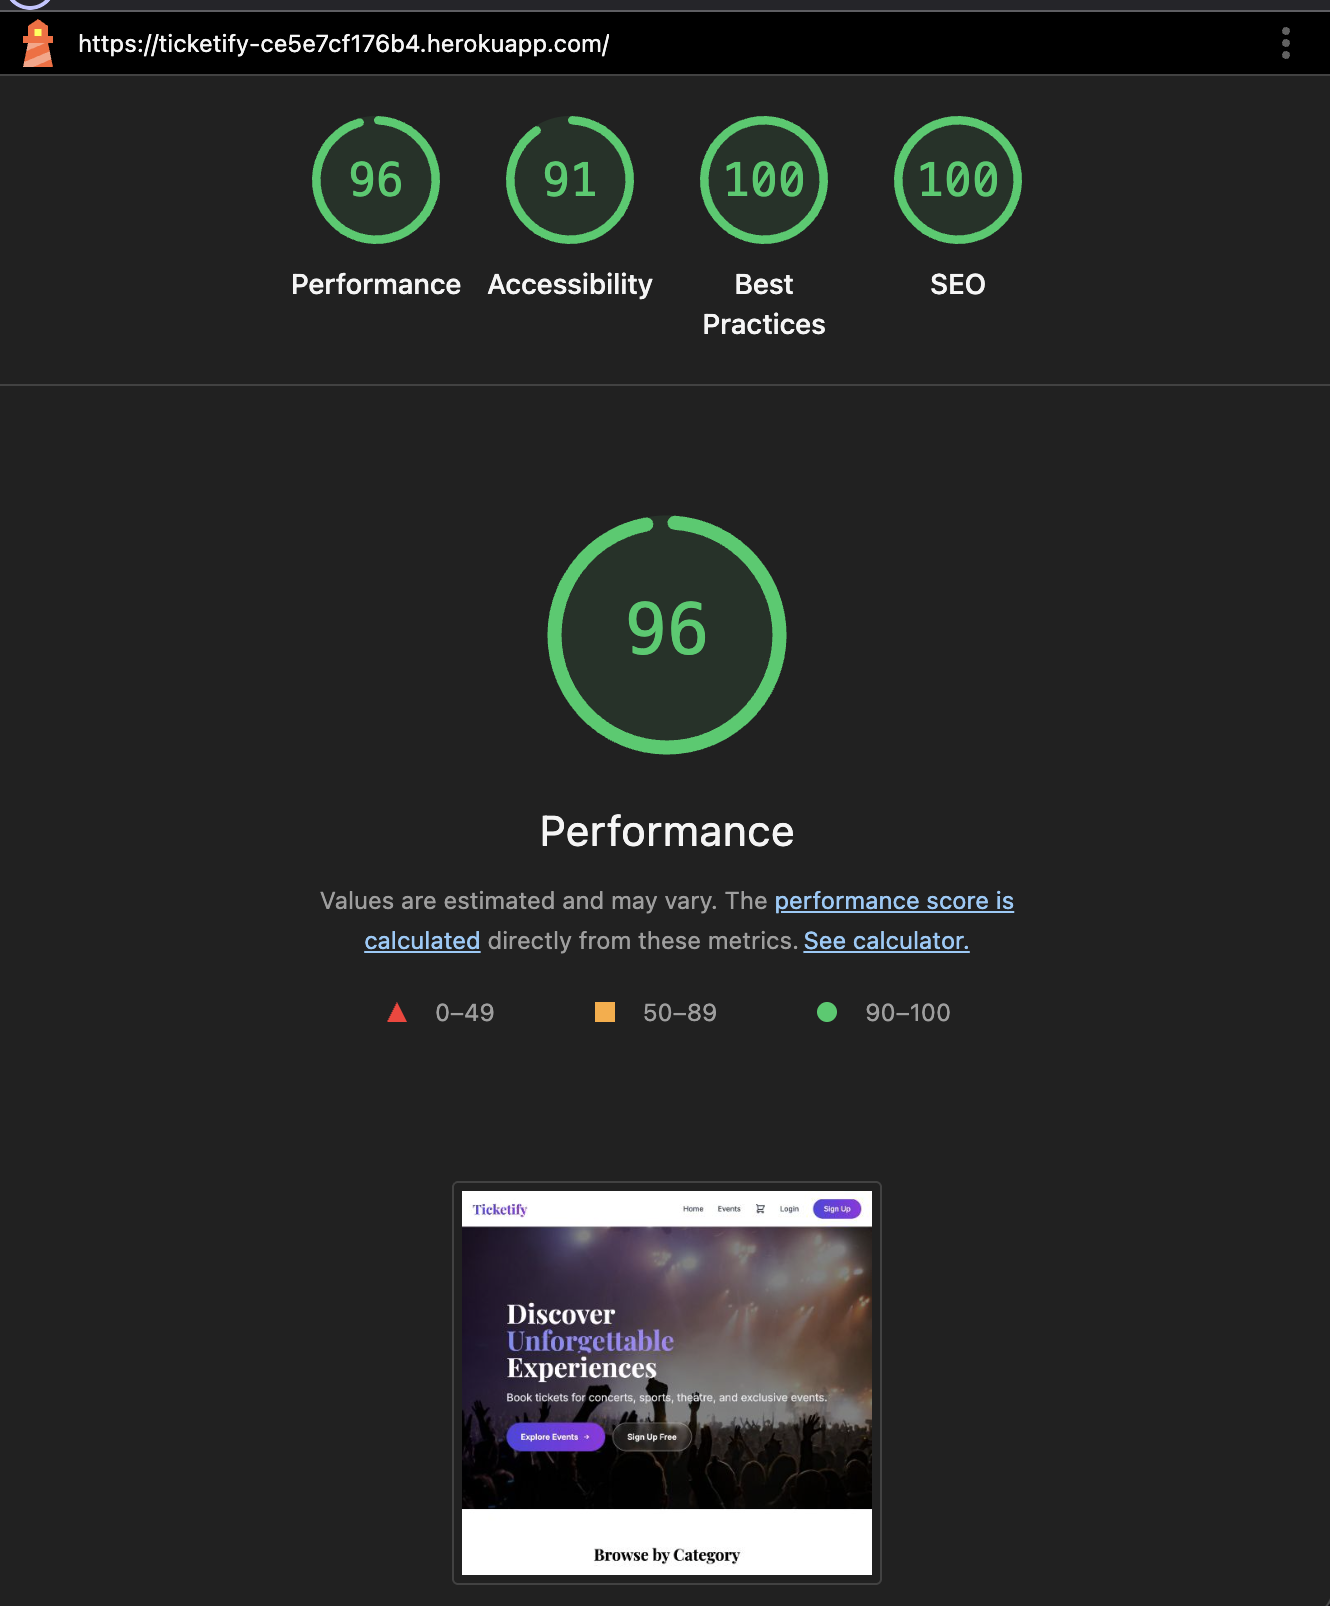
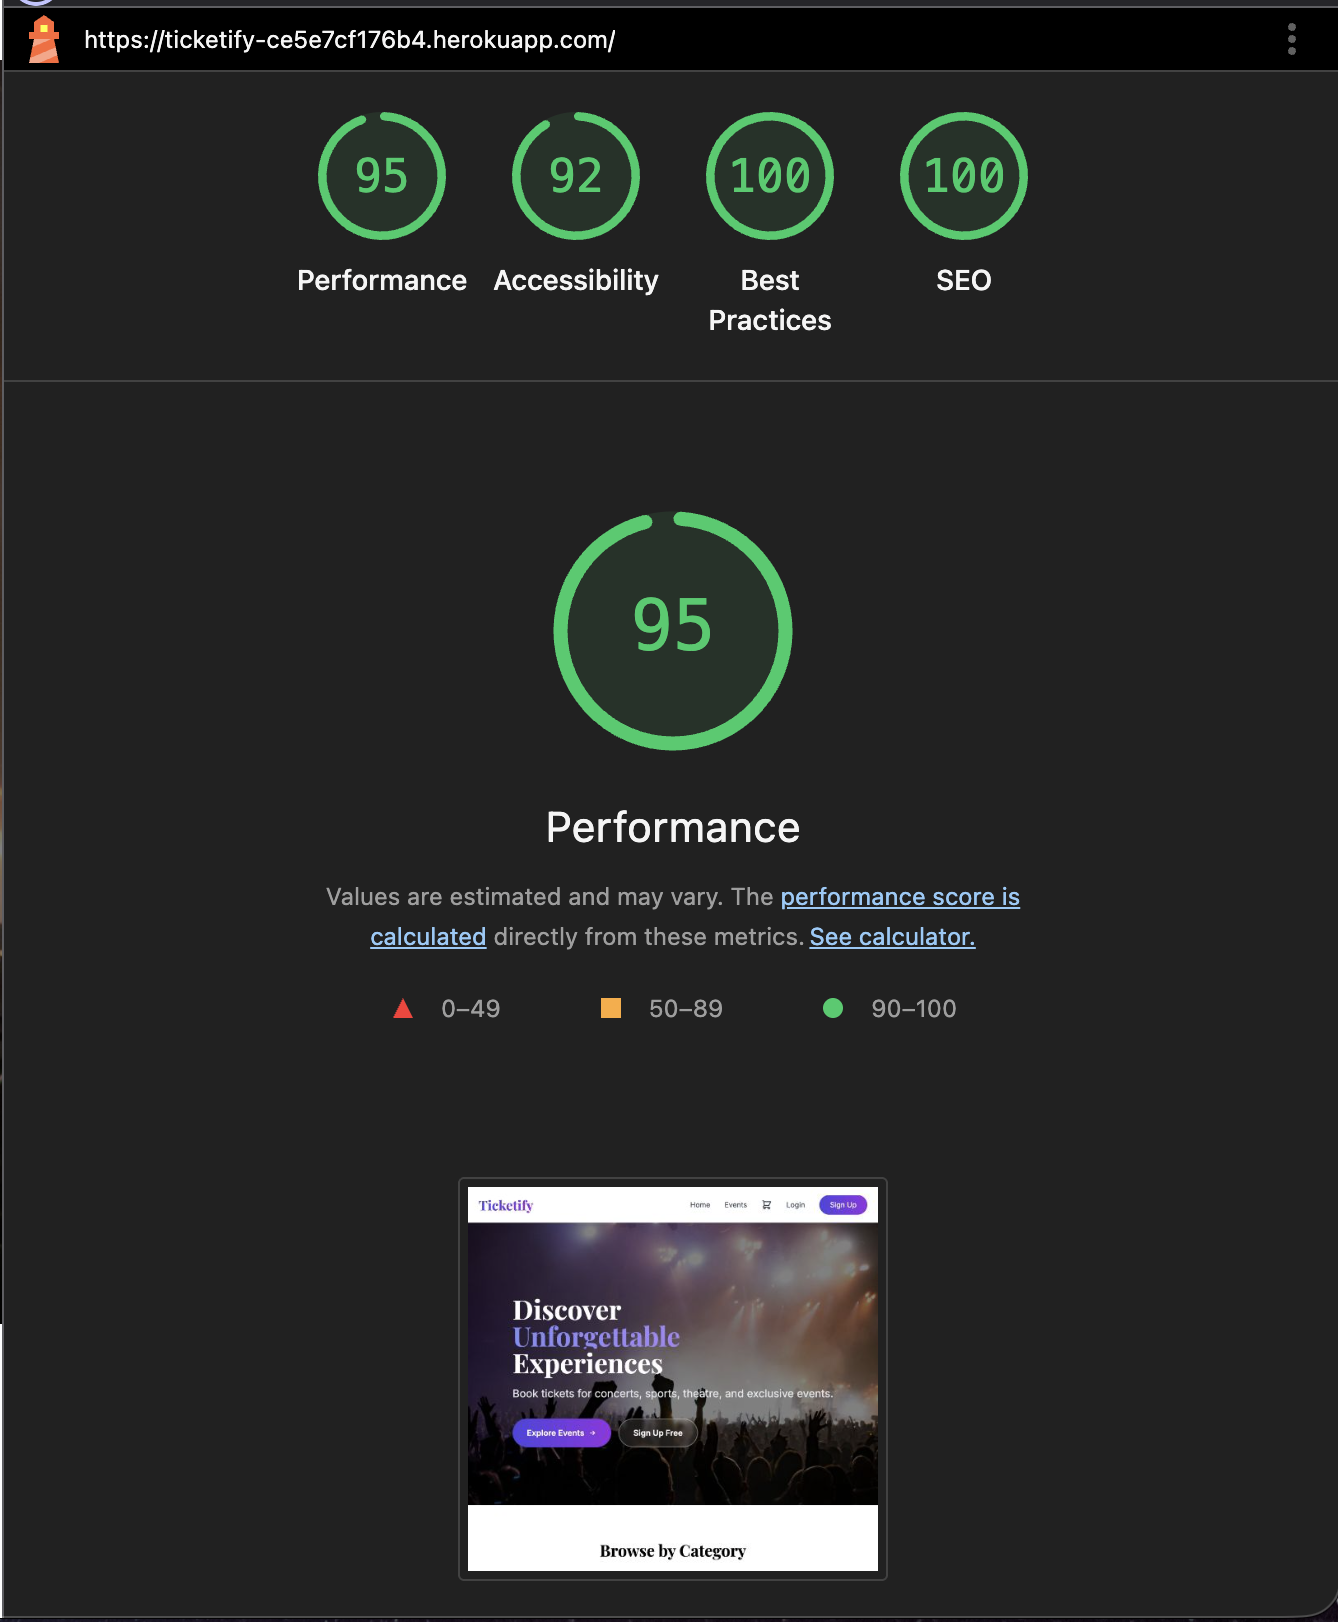
Add Lighthouse performance audit screenshots

diff --git a/README.md b/README.md
@@ -1134,6 +1134,30 @@ Page load times tested on Heroku deployment:
 - Cloudinary CDN for fast image delivery
 - WhiteNoise for efficient static file serving
 - select_related() and prefetch_related() to minimize database queries
+- Lazy loading images with explicit width/height attributes
+- Optimized Google Fonts loading (reduced weights, async loading)
+- Deferred JavaScript loading for non-critical scripts
+- DNS prefetch for external resources
+
+#### Lighthouse Performance Audit
+
+The application was tested using Google Lighthouse to measure performance, accessibility, best practices, and SEO scores.
+
+**Desktop Performance:**
+
+![Lighthouse Desktop Audit](docs/images/lighthouse/desktop.png)
+
+**Mobile Performance:**
+
+![Lighthouse Mobile Audit](docs/images/lighthouse/mobile.png)
+
+**Key Performance Metrics:**
+- ✅ Fast First Contentful Paint (FCP)
+- ✅ Reduced Total Blocking Time (TBT)
+- ✅ Optimized Cumulative Layout Shift (CLS)
+- ✅ Efficient image delivery via Cloudinary CDN
+- ✅ Accessible navigation with proper ARIA labels
+- ✅ SEO optimized with meta tags and semantic HTML
 
 ### Known Bugs and Fixes
 
